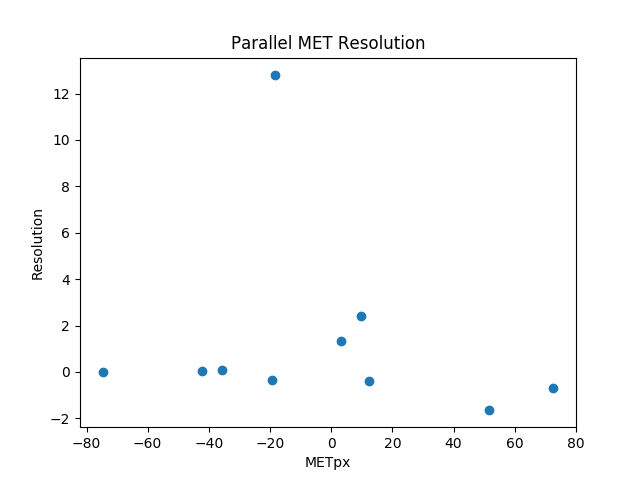
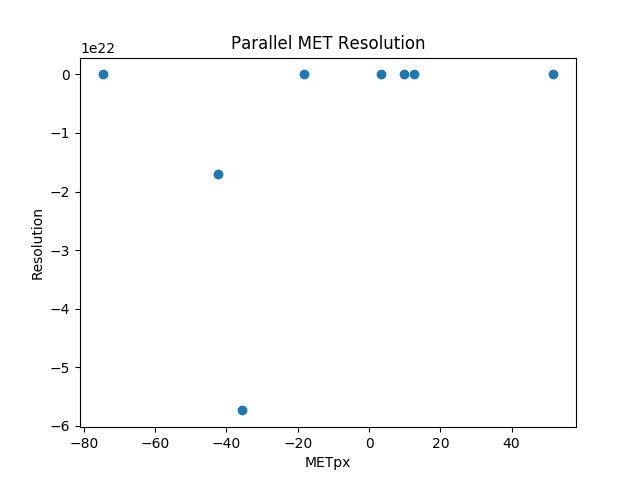
stuff

diff --git a/printMET.py b/printMET.py
@@ -125,8 +125,8 @@ def count(inputPath, metpt, metpx, metpy, genmetpt, genmetpx, genmetpy):
 	metpx.append(met.px())
         metpy.append(met.py())
 
-	event.getByLabel(("caloMet", "", "RECO"), handleCaloMETs)
-	genmet = handleCaloMETs.product().front()
+	event.getByLabel(("genMetTrue", "", "DIGI2RAW"), handleGenMETs)
+	genmet = handleGenMETs.product().front()
 
 	genmetpt.append(genmet.pt())
 	genmetpx.append(genmet.px())
